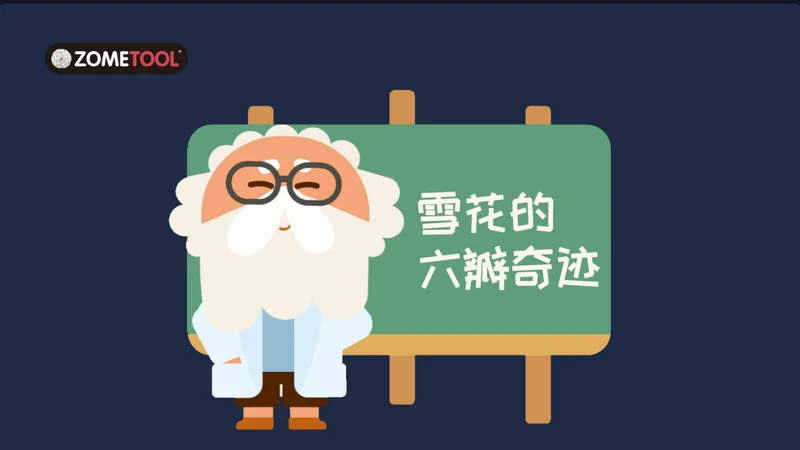
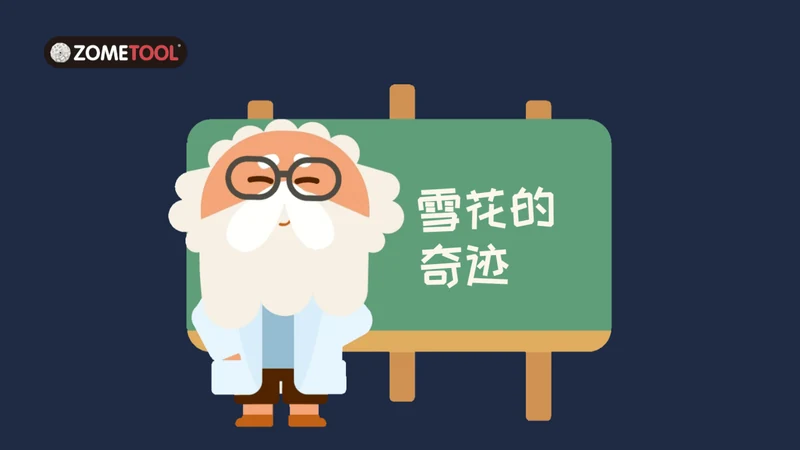
第3节改名：雪花的六瓣奇迹 → 雪花的奇迹
课程卡片标题与封面图、课件标题页、浏览器标题和开场备注一起改。

Claude-Session: https://claude.ai/code/session_017uwtAdQz6fzqoJvcNSjeJg

diff --git a/steamkit-course/lesson03-liuban-qiji/index.html b/steamkit-course/lesson03-liuban-qiji/index.html
@@ -1,5 +1,5 @@
 <meta charset="utf-8">
-<title>雪花的六瓣奇迹</title>
+<title>雪花的奇迹</title>
 <meta name="claude:viewport-fit-sides" content="cover">
 <link rel="preconnect" href="https://fonts.googleapis.com">
 <link rel="preconnect" href="https://fonts.gstatic.com" crossorigin>
@@ -185,7 +185,7 @@ button:focus-visible,input:focus-visible{outline:4px solid var(--orange);outline
 <section class="slide" data-n="1" style="background:#1E2A44"  data-sfx="hello" hidden>
 <div class="el pic in-drop" data-k="0"  style="left:92.7px;top:78.2px;width:285.3px;height:62.6px;"><img class="im" src="a/image1.webp" alt="" draggable="false" style="width:285.3px;height:62.6px;left:-0.0px;top:-0.0px;"></div>
 <div class="el pic in-pop" data-k="1"  style="left:261.4px;top:172.2px;width:958.5px;height:757.0px;"><img class="im" src="a/image2.webp" alt="" draggable="false" style="width:958.5px;height:757.0px;left:-0.0px;top:-0.0px;"></div>
-<div class="el sp in-pop d2 title-wobble" data-k="2"  style="left:832.3px;top:358.8px;width:382.6px;height:110.0px;"><div class="tx" style="justify-content:flex-start;padding:0.0px 0.0px 0.0px 0.0px;white-space:nowrap;"><p style="text-align:left;line-height:110.0px;"><span style="font-size:100.0px;color:#FBF6EC;font-family:var(--display);font-weight:400;">雪花的</span></p><p style="text-align:left;line-height:110.0px;"><span style="font-size:100.0px;color:#FBF6EC;font-family:var(--display);font-weight:400;">六瓣奇迹</span></p></div></div>
+<div class="el sp in-pop d2 title-wobble" data-k="2"  style="left:832.3px;top:358.8px;width:382.6px;height:110.0px;"><div class="tx" style="justify-content:flex-start;padding:0.0px 0.0px 0.0px 0.0px;white-space:nowrap;"><p style="text-align:left;line-height:110.0px;"><span style="font-size:100.0px;color:#FBF6EC;font-family:var(--display);font-weight:400;">雪花的</span></p><p style="text-align:left;line-height:110.0px;"><span style="font-size:100.0px;color:#FBF6EC;font-family:var(--display);font-weight:400;">奇迹</span></p></div></div>
 </section>
 <section class="slide" data-n="2" style="background:#1E2A44"  hidden>
 <div class="el sp " data-k="0"  style="left:106.7px;top:106.7px;width:1802.7px;height:61.3px;"><div class="tx" style="justify-content:flex-start;padding:0.0px 0.0px 0.0px 0.0px;white-space:nowrap;"><p style="text-align:left;line-height:61.3px;"><span style="font-size:53.3px;color:#FBF6EC;font-family:var(--display);font-weight:400;">雪花画廊：放大镜下的雪花</span></p></div></div>
@@ -374,7 +374,7 @@ button:focus-visible,input:focus-visible{outline:4px solid var(--orange);outline
     <span class="keys">← → 翻页 · P 推一下 · N 备注 · G 目录 · F 全屏</span>
   </nav>
 </div>
-<script>const META=[{"n": 1, "title": "雪花的六瓣奇迹", "sec": "开场", "notes": "开场 30 秒。老师手里举着一朵搭好的 Zometool 六瓣雪花（就是今天要造的这一朵），\n欢迎来到 SteamKit STEAM 直播课！\n今天这一节叫「六瓣奇迹」。右边这些，是 100 多年前美国农民本特利用相机拍下的真实雪花。你们见过雪吗？今天我们要弄明白雪花的一个秘密，还要亲自造一朵雪花。"}, {"n": 2, "title": "雪花画廊：放大镜下的雪花", "sec": "开场", "notes": "【新增页】开场后接着看雪花（约 1 分钟）。这一页是用微距镜头拍的真雪花，放大了几十倍。话术：这些都是天上掉下来的真雪花，用特别的相机放大拍的。慢慢看，你觉得它们像什么？有没有哪两朵是一模一样的？（让孩子自由说：像星星、像树枝、像花……）"}, {"n": 3, "title": "数一数：每朵雪花有几个瓣？", "sec": "开场", "notes": "【新增页】（约 1 分钟）这些是 100 多年前拍的雪花照片（后面会讲拍照的人）。话术：样子千奇百怪，有的像星星，有的像一块六边形的小盘子。请你挑一朵，数一数它有几个瓣？在评论区打出来。——大家打的都是 6！为什么雪花都是 6 个瓣？这就是今天要解开的秘密。（接下一页「为什么是六？」）"}, {"n": 4, "title": "1", "sec": "第一部分 · 为什么是六", "notes": "进入第一部分，10 秒过渡。\n话术：我们先不急着搭雪花。先当一回小侦探：雪花为什么偏偏是六？雪花是水结成的冰，秘密就藏在比雪花小得多的东西里：水分子。"}, {"n": 5, "title": "水分子的样子", "sec": "第一部分 · 为什么是六", "notes": "约 1 分钟，认识水分子。\n话术：水是由很多很多看不见的小颗粒组成的，叫水分子。每个水分子由 1 个大大的氧和 2 个小小的氢组成，所以写作 H₂O。看，它像不像一个张开双臂的小人？中间大大的红球是氧，两边小小的白球是氢。下一页我们就用 Zometool 把它拼出来。"}, {"n": 6, "title": "拼一拼：用 Zometool 做一个水分子", "sec": "第一部分 · 为什么是六", "notes": "【可旋转 3D】入场会先转一下亮相；之后拖动模型或拖「转一转」滑块，从各个角度看，滚轮/双指可放大；点「回正面」复位。\n【新增页】（约 2 分钟）认识水分子之后，马上用 Zometool 把它拼出来。零件：红球当氧、白球当氢、短黄棍把它们连起来；短黄棍插在球上的三角形孔里。话术：刚才的卡通水分子，我们自己拼一个！拿 1 个红球，2 根短黄棍插在三角形的孔上，另一头各插 1 个白球——一个水分子就做好了，像不像一个张开手臂的小人？提示：两根黄棍之间的夹角，和真水分子差不多（真实约 104.5°，Zometool 里是 109.5°）。"}, {"n": 7, "title": "水分子有 2 只手、2 个口袋", "sec": "第一部分 · 为什么是六", "notes": "约 1 分钟。（点一下水分子，会有小反应。）\n话术：水分子还有个本领：两个氢那头各带一点点「+」，像 2 只手；氧的另一边有 2 个「−」，像 2 个口袋。手最喜欢去抓别的水分子的口袋。"}, {"n": 8, "title": "水分子有 2 只手、2 个口袋", "sec": "第一部分 · 为什么是六", "notes": "【动画】进入这一页自动播放约 6 秒：两个水分子晃来晃去、慢慢靠近；左边水分子的手（+）和右边水分子的口袋（−）一闪一闪互相吸引；「啪」一下吸住，连上蓝色的线，弹出「吸住！」。点右下角「再看一次」或按 P 键重播。\n约 1 分钟。\n话术：看，一个水分子伸出手（+），抓住了另一个水分子的口袋（−），两个水分子就手拉手连起来了。追问：一个水分子最多能拉住几个小伙伴？2 只手 + 2 个口袋 = 4 个！下一页我们在 Zometool 上找找口袋在哪儿。"}, {"n": 9, "title": "Zometool 里，口袋在哪儿？", "sec": "第一部分 · 为什么是六", "notes": "【可旋转 3D】入场会先转一下亮相；之后拖动模型或拖「转一转」滑块，从各个角度看，滚轮/双指可放大；点「回正面」复位。\n【新增页】让孩子拿着自己拼的水分子找一找：红球上和两根短黄棍方向「配套」的，还有 2 个三角形孔（四个方向两两对称，像一个三角锥的四个角）。这两个空孔就是口袋。注意：要找的是和已有两根黄棍成「三角锥」方向的那两个孔，老师可以举着模型示范。"}, {"n": 10, "title": "第 1 步：做 5 个水分子", "sec": "第一部分 · 为什么是六", "notes": "【可旋转 3D】入场会先转一下亮相；之后拖动模型或拖「转一转」滑块，从各个角度看，滚轮/双指可放大；点「回正面」复位。\n【新增页】（约 3 分钟）每人做 5 个水分子：1 个放中间，4 个当小伙伴。和刚才的做法完全一样。"}, {"n": 11, "title": "第 2 步：中间的水分子，伸出 2 只手", "sec": "第一部分 · 为什么是六", "notes": "【可旋转 3D】入场会先转一下亮相；之后拖动模型或拖「转一转」滑块，从各个角度看，滚轮/双指可放大；点「回正面」复位。\n【新增页】（约 2 分钟）中黄棍一头插在中间水分子的白球上（顺着短黄棍的方向继续往外插），另一头插进小伙伴的红球。1 号在正上方，2 号在下面。话术：手拉手的棍比身体里的棍长一点——因为拉手没有身体连得那么紧。"}, {"n": 12, "title": "第 3 步：再来 2 个小伙伴，抓住 2 个口袋", "sec": "第一部分 · 为什么是六", "notes": "【可旋转 3D】入场会先转一下亮相；之后拖动模型或拖「转一转」滑块，从各个角度看，滚轮/双指可放大；点「回正面」复位。\n【新增页】（约 2 分钟）3 号、4 号小伙伴的白球，用中黄棍连到中间红球剩下的 2 个空孔上。完成后：中间的水分子 2 只手、2 个口袋全用上了，正好拉住 4 个小伙伴。零件合计：红球 5、白球 10、短黄棍 10、中黄棍 4（课前请核对套件里有红球和黄棍）。"}, {"n": 13, "title": "转一转：4 个小伙伴，站成一个四面体", "sec": "第一部分 · 为什么是六", "notes": "【可旋转 3D】入场会先转一下亮相；拖动模型或拖「转一转」滑块，从各个角度看这个四面体；点「从上往下看」，正好看到 2、3、4 号围成一圈、1 号被挡住；点「回正面」复位。\n【新增页】让孩子把搭好的模型举起来转一转：让 1 号朝上放在桌上，3 个小伙伴（2、3、4 号）正好像三条腿，整体是个三角锥（四面体）。再从正上方往下看：1 号被挡住，2、3、4 号围成一圈，彼此隔 120°——这就接上了后面「从上往下看是六边形」。"}, {"n": 14, "title": "Zometool 拼搭动画", "sec": "第一部分 · 为什么是六", "notes": "【新增页】约 32 秒动画（自动循环），可在动手前先放一遍，或拼完后回顾：先拼 1 个水分子 → 再做 4 个 → 1、2 号被它的手拉住 → 3、4 号抓住它的口袋 → 转一圈，看出四面体。\n看完直接翻到下一页：在 3D 模型里接着这 5 个水分子继续往外拉手。"}, {"n": 15.5, "title": "继续拉手，搭出一片冰", "sec": "第一部分 · 为什么是六", "notes": "【新增页·可旋转】接上一页的拼搭动画，继续往外拉手，让孩子自己转着看。开场就是第 13 页那 5 个手拉手的水分子。\n① 点「继续拉手」：先在这一层往外长两圈，再在下面、上面各叠一层，一共 5 步，长成一块三层的冰。规矩不变：每个水分子还是 2 只手、2 个口袋，红球之间都隔着一根短黄棍和一根中黄棍。\n② 随时拖动或拖「转一转」滑块转着看，滚轮可以放大；点「回正面」回到原来的角度。\n③ 点「从上往下看」：一圈一圈，全是六边形！三层冰上下对齐，叠在一起还是同一张六边形网；1 号正好在中间那个水分子的正上方，看不见了（和第 13 页说的一样）。\n话术：水分子拉手只能朝 4 个方向，拉着拉着就排成了六边形。冰是六边形的，所以雪花也是六边形的。\n老师心里有数（孩子问到再说）：这个模型照真实雪花里的冰来叠，每一层都和下面一层对齐。中间那一层就是孩子手里能拼出来的样子；上下两层里有些棍子的方向，Zometool 的黄棍插不出来，所以课堂上只拼一层就好。"}, {"n": 16, "title": "六个围一个，连成六边形；水结成冰，也排六边形", "sec": "第一部分 · 为什么是六", "notes": "第一部分小结，30 秒。请孩子跟着说一遍：六个围一个，连成六边形；水结成冰，也排六边形。再追问一句：雪花的芯为什么是六边形？（每个水分子 2 只手、2 个口袋，拉住 4 个小伙伴，从上往下看就排成了六边形。）"}, {"n": 17, "title": "2", "sec": "第二部分 · 亲自造一朵雪花", "notes": "进入第二部分。话术：雪花的芯是六边形。可天上的雪花有六根长长的瓣，它们是怎么长出来的？我们来亲自造一朵！"}, {"n": 18, "title": "一个农民，拍了 5000 多张雪花", "sec": "第二部分 · 亲自造一朵雪花", "notes": "1–2 分钟，搭建前的故事钩子。威尔逊·本特利（1865–1931），美国佛蒙特州的农民，人称「雪花本特利」。1885 年 1 月，他把显微镜接到相机上，第一次拍下单片雪花，一辈子拍了 5000 多张，开场封面那组雪花就是他拍的。话术：100 多年前，有个农民特别喜欢雪花。每到下雪，他就冲到外面，用黑布接住雪花，赶在它融化前拍下来。他拍了 5000 多张，每一张都是六个瓣，可没有两片一模一样。今天我们也来造一朵，看看六个瓣是怎么长出来的。图片：维基共享资源（公有领域），仅供学习。"}, {"n": 19, "title": "第 1 步：拼搭雪花芯", "sec": "第二部分 · 亲自造一朵雪花", "notes": "【可旋转 3D】入场会先转一下亮相；之后拖动模型或拖「转一转」滑块，从各个角度看，滚轮/双指可放大；点「回正面」复位。\n2 分钟。拿出第一部分搭好的「六个围一个」，把中间那个白球连同它插着的 6 根中蓝棍一起拔下来，外圈的 6 个白球和 6 根中蓝棍留着不动。话术：看，剩下的这一圈是什么形状？六边形！这就是雪花的芯，我们早就搭好了。提示：拆的时候一只手按住外圈，另一只手捏住中间的球往上提，外圈不要散；散了就照着屏幕重新连成六边形，要平平地贴在桌上。零件：整朵雪花用白球 24 个，三种蓝棍：中蓝棍 6 根（雪花芯）、长蓝棍 6 根（主枝）、短蓝棍 12 根（侧枝）；挑战再加白球 6 个、短蓝棍 6 根（课前核对套件数量）。拆下来的 1 个白球和 6 根中蓝棍放回盒子。课前请孩子把三种蓝棍按长短分成三堆。"}, {"n": 20, "title": "猜一猜：水汽飘过来，哪里最先接到？", "sec": "第二部分 · 亲自造一朵雪花", "notes": "【动画】蓝色的水汽小点会一直从四面八方飘向雪花芯，但不会落下：这一页只猜不揭晓，答案留到下一页一步一步看。\n2 分钟，先猜，不揭晓。图上蓝色的小点是空气里看不见的水汽，从四面八方飘向雪花芯。话术：雪花是靠「吃」空气里的水汽长大的。水汽从四面八方飘过来，你觉得雪花芯的哪里最先接到？边的中间、六个角，还是到处一样？请在评论区说。身体动作：请孩子站起来，张开双臂、伸出手指。话术：下雪天把手伸出去，最先接到雪的是哪里？指尖！因为它伸得最远。再指着屏幕：雪花芯上，哪里伸得最远？预期（不要提前说，下一页动画揭晓）：六个角。老师心里有数：角伸进了周围更多的空气里，水汽从更多方向都能碰到它；边的中间凹在里面，能碰到它的方向少，所以角长得最快。"}, {"n": 21, "title": "雪花从六个角，长出六根主枝", "sec": "第二部分 · 亲自造一朵雪花", "notes": "【改成分步互动】点「开始 / 下一步」（或按 → 键）一步一步长：① 小小的六边形 ② 水汽飘过来，落在六个角上（橙色圈） ③ 六个角长出六根主枝 ④ 主枝侧边冒出小鼓包（橙色圈） ⑤ 鼓包长成侧枝。每一步水汽都会一直飘过来，落在正在长的地方。点「重来」从头开始。\n2 分钟，揭晓上一页。先长出一片小小的六边形；蓝色的水汽从四面八方飘过来，落在六个角上（橙色圈）；六根主枝从六个角上慢慢往外长，中间的六边形芯一直不变；主枝侧边冒出小鼓包（橙色圈），水汽又落在鼓包上，鼓包越长越长，变成侧枝。话术：你们猜对了吗？水汽最先接到的是六个角，所以角长得最快，从每个角上伸出一根主枝，六个角，就是六根主枝。主枝长长了，侧边冒出小鼓包；鼓包伸出去一点点，水汽又先落在它上面，它就越长越长，变成侧枝。还是同一个道理：哪里伸出去，哪里就先接到水汽、长得快。侧枝为什么斜着长？冰里的小分子排成六边形，冰只能顺着六边形的方向长，所以侧枝和主枝成 60 度，正好和旁边的主枝平行（后面看真雪花会用到这条规矩）。六根主枝在同一片雪花上，一起飘、一起长，碰到的冷暖、水汽一模一样，所以主枝和侧枝都长得一模一样。补充小知识（可选）：雪花在天上一边飘一边长，下落很慢，大约每秒 1 米，和人散步差不多。如果孩子问「照片里的主枝怎么像是从中间长出来的」：因为中间那片六边形很小，主枝又很长，远远看就像连在中间；其实每根主枝都是从六边形的一个角上长出来的。"}, {"n": 22, "title": "第 2 步：从六个角长出主枝", "sec": "第二部分 · 亲自造一朵雪花", "notes": "【可旋转 3D】入场时六根主枝直接从上一步的模型上长出来；之后拖动模型或拖「转一转」滑块转着看，滚轮/双指可放大；点「回正面」复位。\n5 分钟。话术：从雪花芯的每个角往外插一根长蓝棍，就像雪花从六个角长出主枝，末端各插一个球。主枝是从角上长出来的，不是从中心穿过去的。提示：主枝的方向和「从六边形中心到这个角」的方向一样，正好和对面的边平行；也插在球腰上那一圈的孔里，以课前试搭为准。插好以后看看：六根主枝是不是一样长、一样直？"}, {"n": 23, "title": "第 3 步：长出侧枝", "sec": "第二部分 · 亲自造一朵雪花", "notes": "【可旋转 3D】入场时十二根侧枝直接从上一步的模型上长出来；之后拖动模型或拖「转一转」滑块转着看，滚轮/双指可放大；点「回正面」复位。\n5 分钟，老师边搭边答疑。话术：在每根主枝的末端，往两边各伸出一根短蓝棍当侧枝，末端插上球。侧枝比主枝短，和真雪花一样。记住刚才在真雪花上找到的规矩：侧枝和旁边的主枝平行。完成了，一朵树枝雪花！拿起来对着镜头转一转：六个方向一模一样。提示：侧枝也插在球腰上那一圈的孔里，整朵雪花能平平贴在桌上，翘起来就换旁边的孔。侧枝和自己的主枝成 60°，和旁边的主枝平行，也和六边形的一条边平行。页面底部是答案，孩子说出来以后再指给大家看。完成后用线穿过一个球，可以挂起来。零件不够的孩子做到主枝就可以。挑战（做得快的孩子）：每根主枝的尖上再接一根短蓝棍和一个球，主枝继续往外长，侧枝就留在了主枝中间，尖端变成尖尖的，和动画里一样（再加白球 6 个、短蓝棍 6 根）。"}, {"n": 24, "title": "里面是六边形，外面就是六个瓣", "sec": "第二部分 · 亲自造一朵雪花", "notes": "第二部分小结，1 分钟。请孩子跟着说一遍：里面是六边形，外面就是六个瓣。然后回到开场的问题，请两三个孩子用自己的话回答：雪花为什么是六个瓣？参考答案（不要直接念）：水结冰时，水分子手拉手排成六边形，就像小球六个围一个，所以雪花的芯是六边形；六个角伸得最远，最先碰到水汽，长成六根主枝；六根主枝一起飘、一起长，所以一模一样。"}, {"n": 25, "title": "3", "sec": "第三部分 · 六瓣雪花的秘密", "notes": "进入第三部分，10 秒过渡。话术：雪花造好了，先别放下！拿着它，我们来找找六瓣雪花里还藏着哪些秘密。"}, {"n": 26, "title": "真雪花，都守这两条规矩吗？", "sec": "第三部分 · 六瓣雪花的秘密", "notes": "2 分钟。四张都是本特利拍的真雪花（892、893、894、897 号），来自开场封面（维基共享资源，公有领域，仅供学习）。每张图停 20 秒，请孩子在评论区说：有几个瓣？六个瓣一样吗？能找到和旁边主枝平行的侧枝吗？话术：样子千奇百怪，有的像小盘子，有的主枝顶上还开出小花，可每一片都是六个瓣，六个方向一模一样。挑战：谁能在一张图里找到最多的平行线？补充（可选）：从侧面看，雪花薄得像一张纸；冰本身是透明的，很多冰晶把光乱反射，雪看起来才是白的。老实话（孩子问到再说）：这些是本特利挑出来的漂亮雪花。真的下雪时，大多数雪花是碎的、歪的、粘在一起的，完美的六瓣雪花并不常见。"}, {"n": 27, "title": "这些雪花图案，画对了吗？", "sec": "第三部分 · 六瓣雪花的秘密", "notes": "【点一点判对错】先请孩子在评论区说，再逐张点图揭晓：画对的出现绿色 ✓，画错的出现红色 ✗。\n2 分钟。三张都是老师画的雪花图案。请孩子用两条规矩检查，在评论区说哪个画对了。预期答案（先让孩子说）：左边有 8 个瓣，真雪花不会这样；中间画对了，6 个瓣，侧枝和旁边的主枝平行；右边虽然是 6 个瓣，侧枝却是垂直长出来的，真雪花的侧枝不会这样长。话术：生活里很多雪花图案都画错了！冰箱贴、贴纸、衣服上的雪花，下次看到了，数一数几个瓣。追问：你见过画错的雪花吗？"}, {"n": 28, "title": "两千多年前，古人就发现了", "sec": "第三部分 · 六瓣雪花的秘密", "notes": "1–2 分钟。《韩诗外传》是西汉韩婴写的书，离今天两千多年，原文：「凡草木花多五出，雪花独六出。」「出」就是花瓣。比德国科学家开普勒写雪花的小书（1611 年）早了一千七百多年。话术：还记得开场的投票吗？五瓣和六瓣。两千多年前的中国人早就注意到了：花草的花大多是五瓣，比如桃花、梅花；可是雪花，偏偏是六瓣。互动：请孩子想一想，家里或小区里有哪些花是五瓣的？下次看到花，数一数。注意：不是所有花都是五瓣，百合是六瓣，所以古人说的是「多」五出。孩子举出反例，要表扬。"}, {"n": 29, "title": "任务 1：搭建一朵最美的六瓣雪花。", "sec": "今日作业", "notes": "2 分钟布置。任务 1（设计）：回家完成，没有标准答案。要求：六根主枝一模一样；侧枝和旁边的主枝平行；挂在窗户上。鼓励孩子先画草图：侧枝长几根、长在哪里、要不要再长出小侧枝。下周带回来一张照片，说说侧枝是怎么长的。\n任务 2（控制变量的探究）：3 张一样大的圆形纸、剪刀（低年级请家长帮忙）。三种折法各剪一朵，剪的花样尽量一样，只改变折法：对折两次、对折后再折三等份、对折三次（配图只是折好后的样子，不给答案）。下周带回来：三朵纸雪花和你的结论。预期（不要提前说）：对折两次剪出 4 个瓣，对折三次 8 个瓣，对折后再折三等份剪出 6 个瓣，最像真雪花，因为它和雪花一样，转 60 度就和原来一样。"}];</script>
+<script>const META=[{"n": 1, "title": "雪花的奇迹", "sec": "开场", "notes": "开场 30 秒。老师手里举着一朵搭好的 Zometool 六瓣雪花（就是今天要造的这一朵），\n欢迎来到 SteamKit STEAM 直播课！\n今天这一节叫「雪花的奇迹」。右边这些，是 100 多年前美国农民本特利用相机拍下的真实雪花。你们见过雪吗？今天我们要弄明白雪花的一个秘密，还要亲自造一朵雪花。"}, {"n": 2, "title": "雪花画廊：放大镜下的雪花", "sec": "开场", "notes": "【新增页】开场后接着看雪花（约 1 分钟）。这一页是用微距镜头拍的真雪花，放大了几十倍。话术：这些都是天上掉下来的真雪花，用特别的相机放大拍的。慢慢看，你觉得它们像什么？有没有哪两朵是一模一样的？（让孩子自由说：像星星、像树枝、像花……）"}, {"n": 3, "title": "数一数：每朵雪花有几个瓣？", "sec": "开场", "notes": "【新增页】（约 1 分钟）这些是 100 多年前拍的雪花照片（后面会讲拍照的人）。话术：样子千奇百怪，有的像星星，有的像一块六边形的小盘子。请你挑一朵，数一数它有几个瓣？在评论区打出来。——大家打的都是 6！为什么雪花都是 6 个瓣？这就是今天要解开的秘密。（接下一页「为什么是六？」）"}, {"n": 4, "title": "1", "sec": "第一部分 · 为什么是六", "notes": "进入第一部分，10 秒过渡。\n话术：我们先不急着搭雪花。先当一回小侦探：雪花为什么偏偏是六？雪花是水结成的冰，秘密就藏在比雪花小得多的东西里：水分子。"}, {"n": 5, "title": "水分子的样子", "sec": "第一部分 · 为什么是六", "notes": "约 1 分钟，认识水分子。\n话术：水是由很多很多看不见的小颗粒组成的，叫水分子。每个水分子由 1 个大大的氧和 2 个小小的氢组成，所以写作 H₂O。看，它像不像一个张开双臂的小人？中间大大的红球是氧，两边小小的白球是氢。下一页我们就用 Zometool 把它拼出来。"}, {"n": 6, "title": "拼一拼：用 Zometool 做一个水分子", "sec": "第一部分 · 为什么是六", "notes": "【可旋转 3D】入场会先转一下亮相；之后拖动模型或拖「转一转」滑块，从各个角度看，滚轮/双指可放大；点「回正面」复位。\n【新增页】（约 2 分钟）认识水分子之后，马上用 Zometool 把它拼出来。零件：红球当氧、白球当氢、短黄棍把它们连起来；短黄棍插在球上的三角形孔里。话术：刚才的卡通水分子，我们自己拼一个！拿 1 个红球，2 根短黄棍插在三角形的孔上，另一头各插 1 个白球——一个水分子就做好了，像不像一个张开手臂的小人？提示：两根黄棍之间的夹角，和真水分子差不多（真实约 104.5°，Zometool 里是 109.5°）。"}, {"n": 7, "title": "水分子有 2 只手、2 个口袋", "sec": "第一部分 · 为什么是六", "notes": "约 1 分钟。（点一下水分子，会有小反应。）\n话术：水分子还有个本领：两个氢那头各带一点点「+」，像 2 只手；氧的另一边有 2 个「−」，像 2 个口袋。手最喜欢去抓别的水分子的口袋。"}, {"n": 8, "title": "水分子有 2 只手、2 个口袋", "sec": "第一部分 · 为什么是六", "notes": "【动画】进入这一页自动播放约 6 秒：两个水分子晃来晃去、慢慢靠近；左边水分子的手（+）和右边水分子的口袋（−）一闪一闪互相吸引；「啪」一下吸住，连上蓝色的线，弹出「吸住！」。点右下角「再看一次」或按 P 键重播。\n约 1 分钟。\n话术：看，一个水分子伸出手（+），抓住了另一个水分子的口袋（−），两个水分子就手拉手连起来了。追问：一个水分子最多能拉住几个小伙伴？2 只手 + 2 个口袋 = 4 个！下一页我们在 Zometool 上找找口袋在哪儿。"}, {"n": 9, "title": "Zometool 里，口袋在哪儿？", "sec": "第一部分 · 为什么是六", "notes": "【可旋转 3D】入场会先转一下亮相；之后拖动模型或拖「转一转」滑块，从各个角度看，滚轮/双指可放大；点「回正面」复位。\n【新增页】让孩子拿着自己拼的水分子找一找：红球上和两根短黄棍方向「配套」的，还有 2 个三角形孔（四个方向两两对称，像一个三角锥的四个角）。这两个空孔就是口袋。注意：要找的是和已有两根黄棍成「三角锥」方向的那两个孔，老师可以举着模型示范。"}, {"n": 10, "title": "第 1 步：做 5 个水分子", "sec": "第一部分 · 为什么是六", "notes": "【可旋转 3D】入场会先转一下亮相；之后拖动模型或拖「转一转」滑块，从各个角度看，滚轮/双指可放大；点「回正面」复位。\n【新增页】（约 3 分钟）每人做 5 个水分子：1 个放中间，4 个当小伙伴。和刚才的做法完全一样。"}, {"n": 11, "title": "第 2 步：中间的水分子，伸出 2 只手", "sec": "第一部分 · 为什么是六", "notes": "【可旋转 3D】入场会先转一下亮相；之后拖动模型或拖「转一转」滑块，从各个角度看，滚轮/双指可放大；点「回正面」复位。\n【新增页】（约 2 分钟）中黄棍一头插在中间水分子的白球上（顺着短黄棍的方向继续往外插），另一头插进小伙伴的红球。1 号在正上方，2 号在下面。话术：手拉手的棍比身体里的棍长一点——因为拉手没有身体连得那么紧。"}, {"n": 12, "title": "第 3 步：再来 2 个小伙伴，抓住 2 个口袋", "sec": "第一部分 · 为什么是六", "notes": "【可旋转 3D】入场会先转一下亮相；之后拖动模型或拖「转一转」滑块，从各个角度看，滚轮/双指可放大；点「回正面」复位。\n【新增页】（约 2 分钟）3 号、4 号小伙伴的白球，用中黄棍连到中间红球剩下的 2 个空孔上。完成后：中间的水分子 2 只手、2 个口袋全用上了，正好拉住 4 个小伙伴。零件合计：红球 5、白球 10、短黄棍 10、中黄棍 4（课前请核对套件里有红球和黄棍）。"}, {"n": 13, "title": "转一转：4 个小伙伴，站成一个四面体", "sec": "第一部分 · 为什么是六", "notes": "【可旋转 3D】入场会先转一下亮相；拖动模型或拖「转一转」滑块，从各个角度看这个四面体；点「从上往下看」，正好看到 2、3、4 号围成一圈、1 号被挡住；点「回正面」复位。\n【新增页】让孩子把搭好的模型举起来转一转：让 1 号朝上放在桌上，3 个小伙伴（2、3、4 号）正好像三条腿，整体是个三角锥（四面体）。再从正上方往下看：1 号被挡住，2、3、4 号围成一圈，彼此隔 120°——这就接上了后面「从上往下看是六边形」。"}, {"n": 14, "title": "Zometool 拼搭动画", "sec": "第一部分 · 为什么是六", "notes": "【新增页】约 32 秒动画（自动循环），可在动手前先放一遍，或拼完后回顾：先拼 1 个水分子 → 再做 4 个 → 1、2 号被它的手拉住 → 3、4 号抓住它的口袋 → 转一圈，看出四面体。\n看完直接翻到下一页：在 3D 模型里接着这 5 个水分子继续往外拉手。"}, {"n": 15.5, "title": "继续拉手，搭出一片冰", "sec": "第一部分 · 为什么是六", "notes": "【新增页·可旋转】接上一页的拼搭动画，继续往外拉手，让孩子自己转着看。开场就是第 13 页那 5 个手拉手的水分子。\n① 点「继续拉手」：先在这一层往外长两圈，再在下面、上面各叠一层，一共 5 步，长成一块三层的冰。规矩不变：每个水分子还是 2 只手、2 个口袋，红球之间都隔着一根短黄棍和一根中黄棍。\n② 随时拖动或拖「转一转」滑块转着看，滚轮可以放大；点「回正面」回到原来的角度。\n③ 点「从上往下看」：一圈一圈，全是六边形！三层冰上下对齐，叠在一起还是同一张六边形网；1 号正好在中间那个水分子的正上方，看不见了（和第 13 页说的一样）。\n话术：水分子拉手只能朝 4 个方向，拉着拉着就排成了六边形。冰是六边形的，所以雪花也是六边形的。\n老师心里有数（孩子问到再说）：这个模型照真实雪花里的冰来叠，每一层都和下面一层对齐。中间那一层就是孩子手里能拼出来的样子；上下两层里有些棍子的方向，Zometool 的黄棍插不出来，所以课堂上只拼一层就好。"}, {"n": 16, "title": "六个围一个，连成六边形；水结成冰，也排六边形", "sec": "第一部分 · 为什么是六", "notes": "第一部分小结，30 秒。请孩子跟着说一遍：六个围一个，连成六边形；水结成冰，也排六边形。再追问一句：雪花的芯为什么是六边形？（每个水分子 2 只手、2 个口袋，拉住 4 个小伙伴，从上往下看就排成了六边形。）"}, {"n": 17, "title": "2", "sec": "第二部分 · 亲自造一朵雪花", "notes": "进入第二部分。话术：雪花的芯是六边形。可天上的雪花有六根长长的瓣，它们是怎么长出来的？我们来亲自造一朵！"}, {"n": 18, "title": "一个农民，拍了 5000 多张雪花", "sec": "第二部分 · 亲自造一朵雪花", "notes": "1–2 分钟，搭建前的故事钩子。威尔逊·本特利（1865–1931），美国佛蒙特州的农民，人称「雪花本特利」。1885 年 1 月，他把显微镜接到相机上，第一次拍下单片雪花，一辈子拍了 5000 多张，开场封面那组雪花就是他拍的。话术：100 多年前，有个农民特别喜欢雪花。每到下雪，他就冲到外面，用黑布接住雪花，赶在它融化前拍下来。他拍了 5000 多张，每一张都是六个瓣，可没有两片一模一样。今天我们也来造一朵，看看六个瓣是怎么长出来的。图片：维基共享资源（公有领域），仅供学习。"}, {"n": 19, "title": "第 1 步：拼搭雪花芯", "sec": "第二部分 · 亲自造一朵雪花", "notes": "【可旋转 3D】入场会先转一下亮相；之后拖动模型或拖「转一转」滑块，从各个角度看，滚轮/双指可放大；点「回正面」复位。\n2 分钟。拿出第一部分搭好的「六个围一个」，把中间那个白球连同它插着的 6 根中蓝棍一起拔下来，外圈的 6 个白球和 6 根中蓝棍留着不动。话术：看，剩下的这一圈是什么形状？六边形！这就是雪花的芯，我们早就搭好了。提示：拆的时候一只手按住外圈，另一只手捏住中间的球往上提，外圈不要散；散了就照着屏幕重新连成六边形，要平平地贴在桌上。零件：整朵雪花用白球 24 个，三种蓝棍：中蓝棍 6 根（雪花芯）、长蓝棍 6 根（主枝）、短蓝棍 12 根（侧枝）；挑战再加白球 6 个、短蓝棍 6 根（课前核对套件数量）。拆下来的 1 个白球和 6 根中蓝棍放回盒子。课前请孩子把三种蓝棍按长短分成三堆。"}, {"n": 20, "title": "猜一猜：水汽飘过来，哪里最先接到？", "sec": "第二部分 · 亲自造一朵雪花", "notes": "【动画】蓝色的水汽小点会一直从四面八方飘向雪花芯，但不会落下：这一页只猜不揭晓，答案留到下一页一步一步看。\n2 分钟，先猜，不揭晓。图上蓝色的小点是空气里看不见的水汽，从四面八方飘向雪花芯。话术：雪花是靠「吃」空气里的水汽长大的。水汽从四面八方飘过来，你觉得雪花芯的哪里最先接到？边的中间、六个角，还是到处一样？请在评论区说。身体动作：请孩子站起来，张开双臂、伸出手指。话术：下雪天把手伸出去，最先接到雪的是哪里？指尖！因为它伸得最远。再指着屏幕：雪花芯上，哪里伸得最远？预期（不要提前说，下一页动画揭晓）：六个角。老师心里有数：角伸进了周围更多的空气里，水汽从更多方向都能碰到它；边的中间凹在里面，能碰到它的方向少，所以角长得最快。"}, {"n": 21, "title": "雪花从六个角，长出六根主枝", "sec": "第二部分 · 亲自造一朵雪花", "notes": "【改成分步互动】点「开始 / 下一步」（或按 → 键）一步一步长：① 小小的六边形 ② 水汽飘过来，落在六个角上（橙色圈） ③ 六个角长出六根主枝 ④ 主枝侧边冒出小鼓包（橙色圈） ⑤ 鼓包长成侧枝。每一步水汽都会一直飘过来，落在正在长的地方。点「重来」从头开始。\n2 分钟，揭晓上一页。先长出一片小小的六边形；蓝色的水汽从四面八方飘过来，落在六个角上（橙色圈）；六根主枝从六个角上慢慢往外长，中间的六边形芯一直不变；主枝侧边冒出小鼓包（橙色圈），水汽又落在鼓包上，鼓包越长越长，变成侧枝。话术：你们猜对了吗？水汽最先接到的是六个角，所以角长得最快，从每个角上伸出一根主枝，六个角，就是六根主枝。主枝长长了，侧边冒出小鼓包；鼓包伸出去一点点，水汽又先落在它上面，它就越长越长，变成侧枝。还是同一个道理：哪里伸出去，哪里就先接到水汽、长得快。侧枝为什么斜着长？冰里的小分子排成六边形，冰只能顺着六边形的方向长，所以侧枝和主枝成 60 度，正好和旁边的主枝平行（后面看真雪花会用到这条规矩）。六根主枝在同一片雪花上，一起飘、一起长，碰到的冷暖、水汽一模一样，所以主枝和侧枝都长得一模一样。补充小知识（可选）：雪花在天上一边飘一边长，下落很慢，大约每秒 1 米，和人散步差不多。如果孩子问「照片里的主枝怎么像是从中间长出来的」：因为中间那片六边形很小，主枝又很长，远远看就像连在中间；其实每根主枝都是从六边形的一个角上长出来的。"}, {"n": 22, "title": "第 2 步：从六个角长出主枝", "sec": "第二部分 · 亲自造一朵雪花", "notes": "【可旋转 3D】入场时六根主枝直接从上一步的模型上长出来；之后拖动模型或拖「转一转」滑块转着看，滚轮/双指可放大；点「回正面」复位。\n5 分钟。话术：从雪花芯的每个角往外插一根长蓝棍，就像雪花从六个角长出主枝，末端各插一个球。主枝是从角上长出来的，不是从中心穿过去的。提示：主枝的方向和「从六边形中心到这个角」的方向一样，正好和对面的边平行；也插在球腰上那一圈的孔里，以课前试搭为准。插好以后看看：六根主枝是不是一样长、一样直？"}, {"n": 23, "title": "第 3 步：长出侧枝", "sec": "第二部分 · 亲自造一朵雪花", "notes": "【可旋转 3D】入场时十二根侧枝直接从上一步的模型上长出来；之后拖动模型或拖「转一转」滑块转着看，滚轮/双指可放大；点「回正面」复位。\n5 分钟，老师边搭边答疑。话术：在每根主枝的末端，往两边各伸出一根短蓝棍当侧枝，末端插上球。侧枝比主枝短，和真雪花一样。记住刚才在真雪花上找到的规矩：侧枝和旁边的主枝平行。完成了，一朵树枝雪花！拿起来对着镜头转一转：六个方向一模一样。提示：侧枝也插在球腰上那一圈的孔里，整朵雪花能平平贴在桌上，翘起来就换旁边的孔。侧枝和自己的主枝成 60°，和旁边的主枝平行，也和六边形的一条边平行。页面底部是答案，孩子说出来以后再指给大家看。完成后用线穿过一个球，可以挂起来。零件不够的孩子做到主枝就可以。挑战（做得快的孩子）：每根主枝的尖上再接一根短蓝棍和一个球，主枝继续往外长，侧枝就留在了主枝中间，尖端变成尖尖的，和动画里一样（再加白球 6 个、短蓝棍 6 根）。"}, {"n": 24, "title": "里面是六边形，外面就是六个瓣", "sec": "第二部分 · 亲自造一朵雪花", "notes": "第二部分小结，1 分钟。请孩子跟着说一遍：里面是六边形，外面就是六个瓣。然后回到开场的问题，请两三个孩子用自己的话回答：雪花为什么是六个瓣？参考答案（不要直接念）：水结冰时，水分子手拉手排成六边形，就像小球六个围一个，所以雪花的芯是六边形；六个角伸得最远，最先碰到水汽，长成六根主枝；六根主枝一起飘、一起长，所以一模一样。"}, {"n": 25, "title": "3", "sec": "第三部分 · 六瓣雪花的秘密", "notes": "进入第三部分，10 秒过渡。话术：雪花造好了，先别放下！拿着它，我们来找找六瓣雪花里还藏着哪些秘密。"}, {"n": 26, "title": "真雪花，都守这两条规矩吗？", "sec": "第三部分 · 六瓣雪花的秘密", "notes": "2 分钟。四张都是本特利拍的真雪花（892、893、894、897 号），来自开场封面（维基共享资源，公有领域，仅供学习）。每张图停 20 秒，请孩子在评论区说：有几个瓣？六个瓣一样吗？能找到和旁边主枝平行的侧枝吗？话术：样子千奇百怪，有的像小盘子，有的主枝顶上还开出小花，可每一片都是六个瓣，六个方向一模一样。挑战：谁能在一张图里找到最多的平行线？补充（可选）：从侧面看，雪花薄得像一张纸；冰本身是透明的，很多冰晶把光乱反射，雪看起来才是白的。老实话（孩子问到再说）：这些是本特利挑出来的漂亮雪花。真的下雪时，大多数雪花是碎的、歪的、粘在一起的，完美的六瓣雪花并不常见。"}, {"n": 27, "title": "这些雪花图案，画对了吗？", "sec": "第三部分 · 六瓣雪花的秘密", "notes": "【点一点判对错】先请孩子在评论区说，再逐张点图揭晓：画对的出现绿色 ✓，画错的出现红色 ✗。\n2 分钟。三张都是老师画的雪花图案。请孩子用两条规矩检查，在评论区说哪个画对了。预期答案（先让孩子说）：左边有 8 个瓣，真雪花不会这样；中间画对了，6 个瓣，侧枝和旁边的主枝平行；右边虽然是 6 个瓣，侧枝却是垂直长出来的，真雪花的侧枝不会这样长。话术：生活里很多雪花图案都画错了！冰箱贴、贴纸、衣服上的雪花，下次看到了，数一数几个瓣。追问：你见过画错的雪花吗？"}, {"n": 28, "title": "两千多年前，古人就发现了", "sec": "第三部分 · 六瓣雪花的秘密", "notes": "1–2 分钟。《韩诗外传》是西汉韩婴写的书，离今天两千多年，原文：「凡草木花多五出，雪花独六出。」「出」就是花瓣。比德国科学家开普勒写雪花的小书（1611 年）早了一千七百多年。话术：还记得开场的投票吗？五瓣和六瓣。两千多年前的中国人早就注意到了：花草的花大多是五瓣，比如桃花、梅花；可是雪花，偏偏是六瓣。互动：请孩子想一想，家里或小区里有哪些花是五瓣的？下次看到花，数一数。注意：不是所有花都是五瓣，百合是六瓣，所以古人说的是「多」五出。孩子举出反例，要表扬。"}, {"n": 29, "title": "任务 1：搭建一朵最美的六瓣雪花。", "sec": "今日作业", "notes": "2 分钟布置。任务 1（设计）：回家完成，没有标准答案。要求：六根主枝一模一样；侧枝和旁边的主枝平行；挂在窗户上。鼓励孩子先画草图：侧枝长几根、长在哪里、要不要再长出小侧枝。下周带回来一张照片，说说侧枝是怎么长的。\n任务 2（控制变量的探究）：3 张一样大的圆形纸、剪刀（低年级请家长帮忙）。三种折法各剪一朵，剪的花样尽量一样，只改变折法：对折两次、对折后再折三等份、对折三次（配图只是折好后的样子，不给答案）。下周带回来：三朵纸雪花和你的结论。预期（不要提前说）：对折两次剪出 4 个瓣，对折三次 8 个瓣，对折后再折三等份剪出 6 个瓣，最像真雪花，因为它和雪花一样，转 60 度就和原来一样。"}];</script>
 <script>
 (()=>{
 "use strict";

diff --git a/steamkit-course/courseware/index.html b/steamkit-course/courseware/index.html
@@ -64,7 +64,7 @@
 <script>
 // 新增一节课：在这里加一行即可（按节次排序）
 const LESSONS = [
-  { no: 3, title: "雪花的六瓣奇迹", q: "为什么雪花都是六个瓣？", href: "../lesson03-liuban-qiji/", img: "img/l03.webp", pages: 29,
+  { no: 3, title: "雪花的奇迹", q: "为什么雪花都是六个瓣？", href: "../lesson03-liuban-qiji/", img: "img/l03.webp", pages: 29,
     tags: ["水分子拉手", "3D 冰的骨架", "雪花分步生长"] },
   { no: 5, title: "空间大力士", q: "谁是稳定性之王？三角形！", href: "../lesson05-kongjian-dalishi/", img: "img/l05.webp", pages: 33,
     tags: ["推一推实验", "3D 拼搭模型", "硬币压桥"] },

diff --git a/steamkit-course/lesson09-liuban-qiji/index.html b/steamkit-course/lesson09-liuban-qiji/index.html
@@ -1,5 +1,5 @@
 <!doctype html>
-<html lang="zh-CN"><head><meta charset="utf-8"><title>雪花的六瓣奇迹（已搬家）</title>
+<html lang="zh-CN"><head><meta charset="utf-8"><title>雪花的奇迹（已搬家）</title>
 <meta name="viewport" content="width=device-width, initial-scale=1">
 <script>location.replace("../lesson03-liuban-qiji/"+location.hash)</script>
 <meta http-equiv="refresh" content="0; url=../lesson03-liuban-qiji/">
